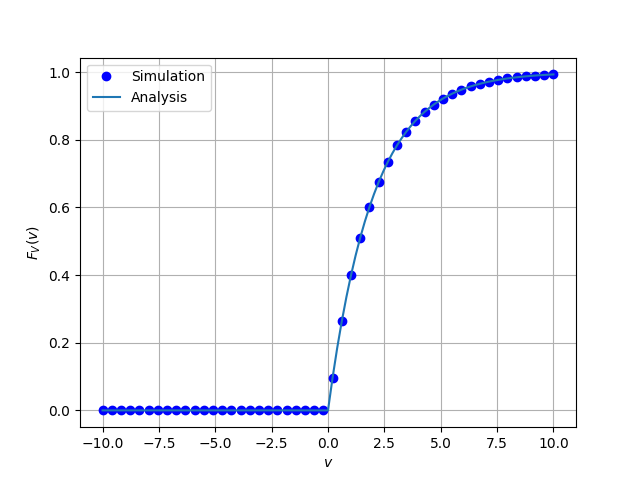
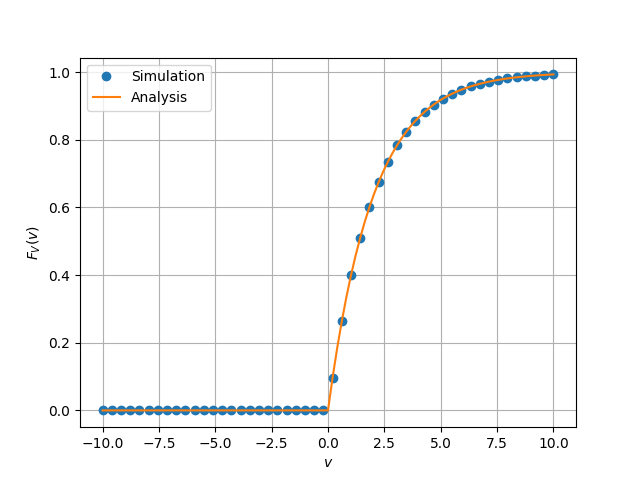
Update python files

diff --git a/manual/codes/cdf_exp_plot.py b/manual/codes/cdf_exp_plot.py
@@ -27,7 +27,7 @@ for i in range(0,50):
 	err_n = np.size(err_ind) #computing the probability
 	err.append(err_n/simlen) #storing the probability values in a list
 
-plt.plot(x,err,'bo')#plotting the CDF
+plt.plot(x,err,'o')#plotting the CDF
 plt.plot(np.concatenate([x1,x2]), np.concatenate([y1,y2]))
 plt.grid() #creating the grid
 plt.xlabel('$v$')

diff --git a/manual/codes/cdf_plot.py b/manual/codes/cdf_plot.py
@@ -27,7 +27,7 @@ for i in range(0,80):
 	err_n = np.size(err_ind) #computing the probability
 	err.append(err_n/simlen) #storing the probability values in a list
 
-plt.plot(x,err,'bo')#plotting empirical CDF
+plt.plot(x,err,'o')#plotting empirical CDF
 plt.plot(x,c)#plotting analytical CDF
 plt.grid() #creating the grid
 plt.xlabel('$x$')

diff --git a/manual/codes/cdf_gauss_plot.py b/manual/codes/cdf_gauss_plot.py
@@ -30,7 +30,7 @@ for i in range(0,maxrange-1):
 	pdf.append(test) #storing the pdf values in a list
 
 rv = norm(0, 1)
-plt.plot(x,err,'bo')
+plt.plot(x,err,'o')
 plt.plot(x, rv.cdf(x))
 plt.grid() #creating the grid
 plt.xlabel('$x_i$')

diff --git a/manual/codes/coeffs.h b/manual/codes/coeffs.h
@@ -69,7 +69,6 @@ fclose(fp);
 
 }
 
-
 //Defining the function for printing
 void print(double **p, int m,int n)
 {
